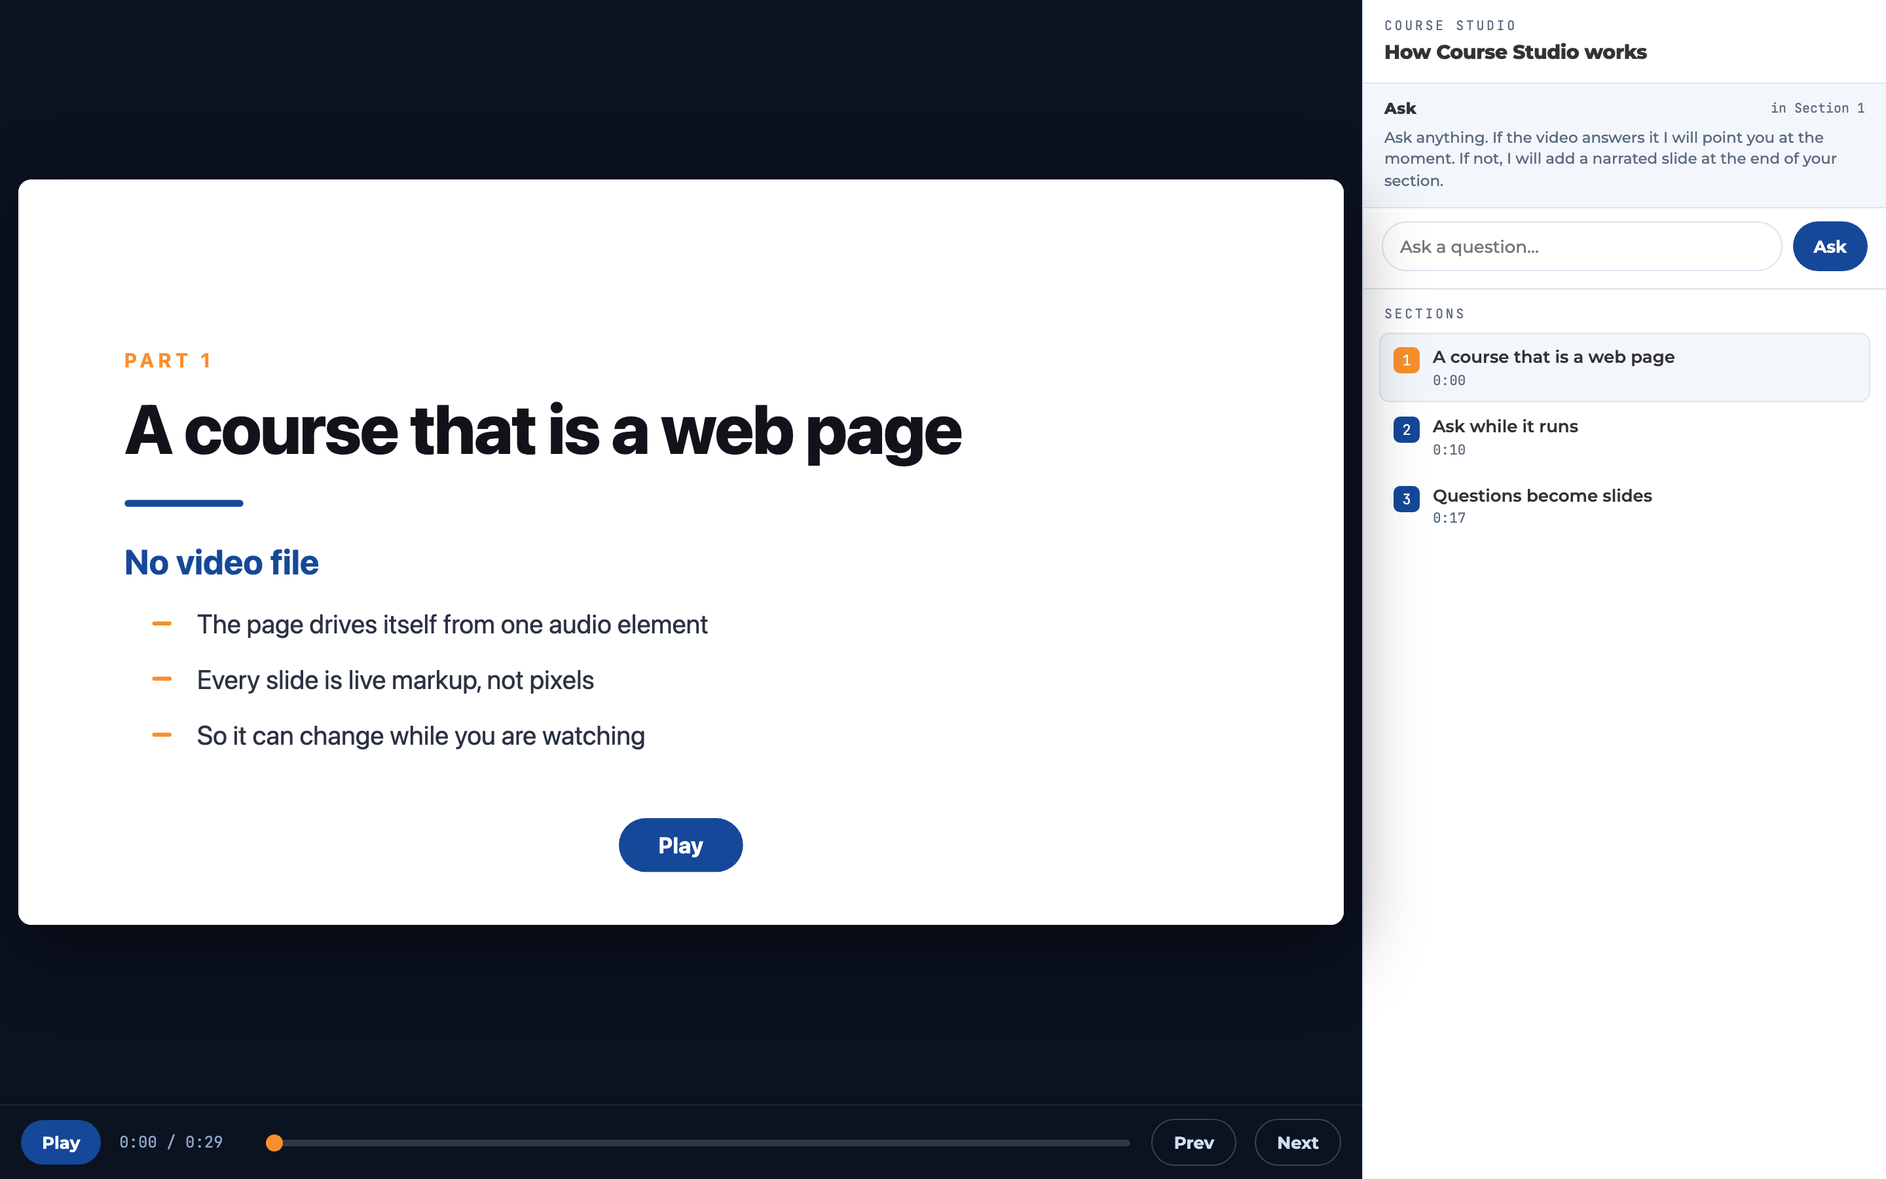
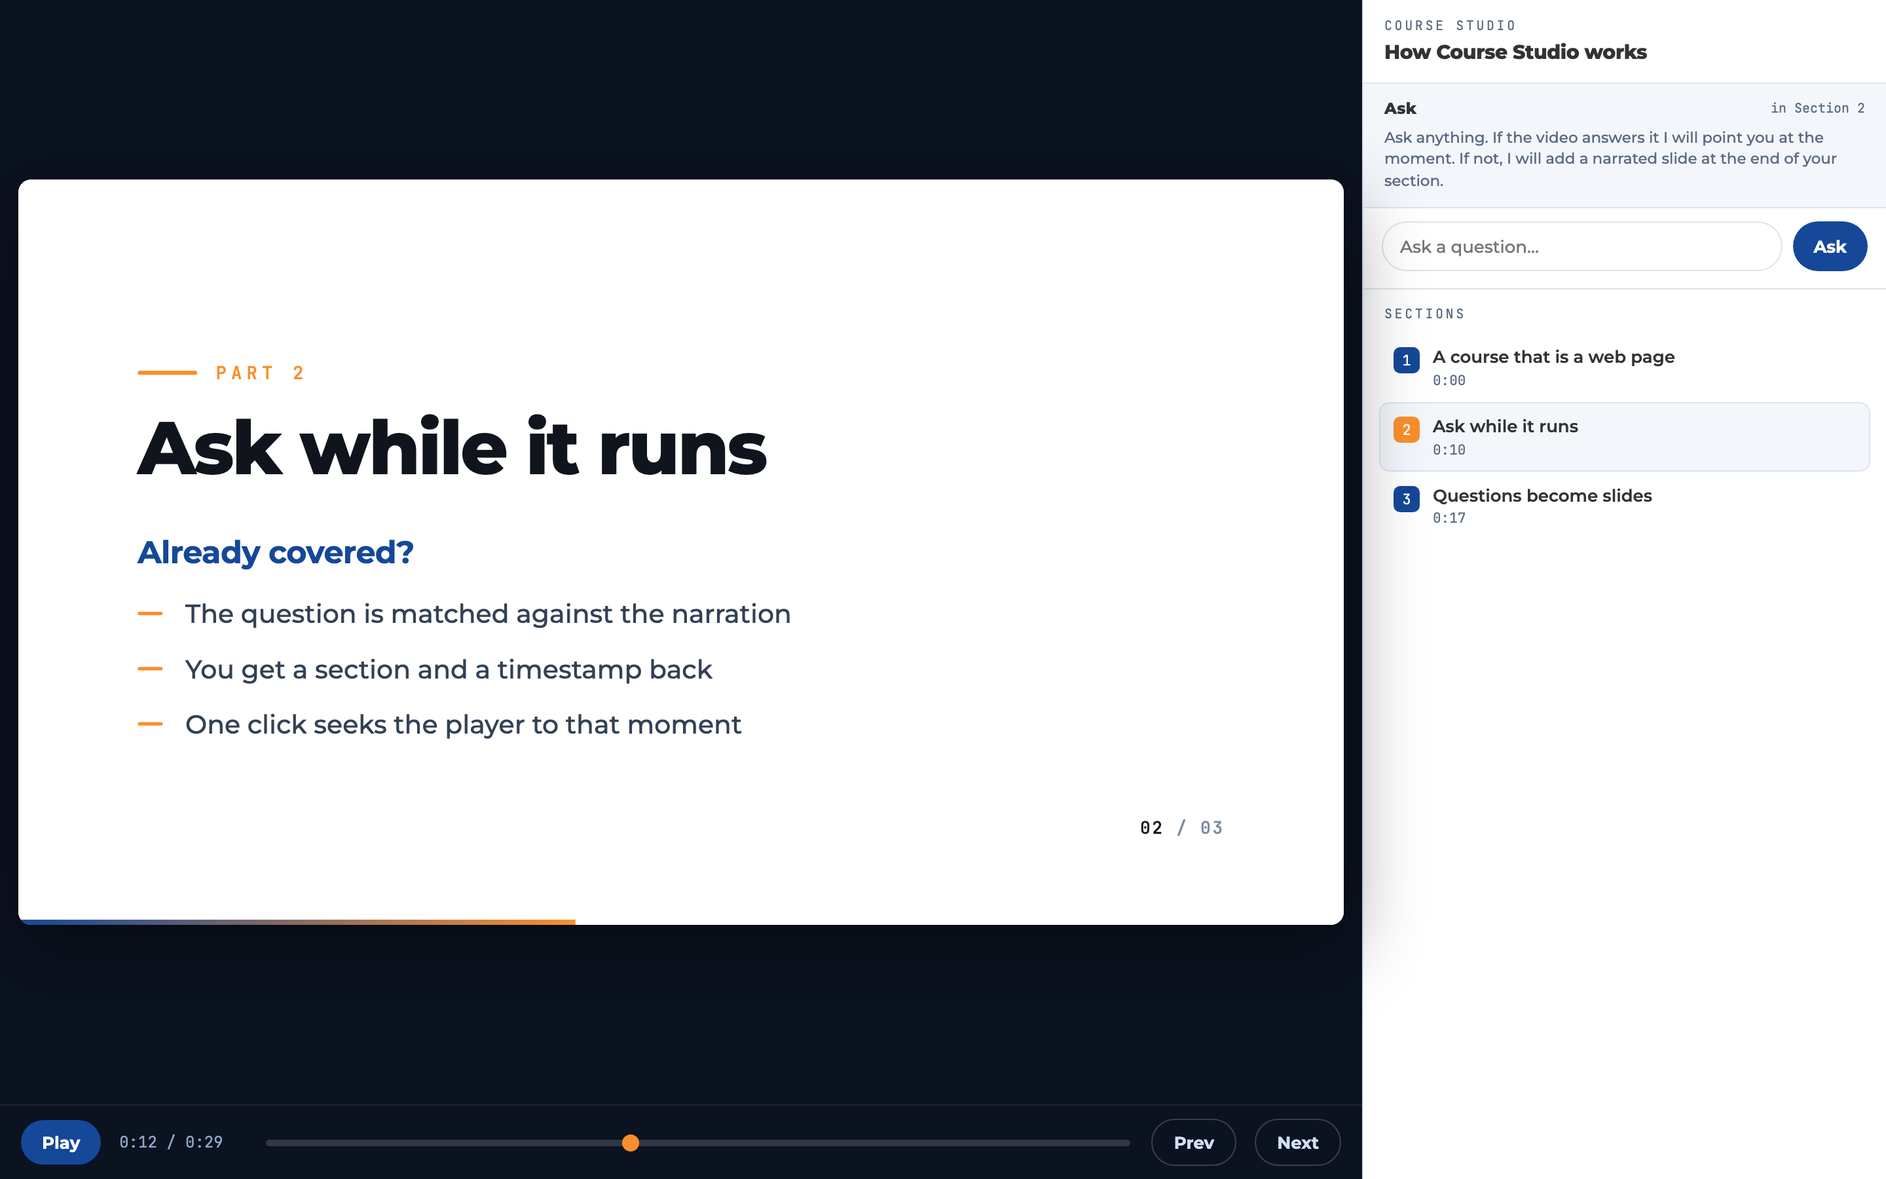
Fix the course library page and redesign the demo visuals
The library page never worked when courses existed. The template read

    const cs = /*{{COURSES}}*/[];

and the server substituted the COMMENT, producing `[{...}][]` — an array
literal followed by an empty subscript, which is a SyntaxError. The script
died on parse, the list stayed empty, and the only reason this went unnoticed
is that the unsubstituted fallback (`[]`) is what you see with no courses.
The placeholder is now the value itself, and the rendered page is checked for
page errors rather than just for a 200.

Design, since the screenshots were the deliverable:

- Library: proper cards with title, section count and duration, a hover state,
  gradient edge accent, dark-mode palette, and an empty state that names the
  command to run. The page no longer prints the brand twice.
- Demo slides: real type scale, a rule-and-kicker header, a section counter in
  the dead bottom corner, and a gradient progress bar. The stray Play pill is
  now a proper centred overlay that dismisses on play.
- Screenshots recaptured at 2x.

diff --git a/courses/demo/site/index.html b/courses/demo/site/index.html
@@ -1,40 +1,68 @@
 <!doctype html><html lang="en"><meta charset="utf-8">
 <title>Course Studio — demo</title>
 <meta name="viewport" content="width=device-width,initial-scale=1">
+<link rel="stylesheet" href="https://fonts.googleapis.com/css2?family=Montserrat:wght@500;600;700;800&family=JetBrains+Mono:wght@500&display=swap">
 <style>
-:root{--navy:#154899;--org:#F98F2C;--ink:#12131A;--mut:#6B7A90;--line:#E3EAF4}
+:root{--navy:#154899;--org:#F98F2C;--ink:#10151d;--body:#334155;--mut:#7d8ba0;--bg:#fff;--ln:#e6edf7}
+@media (prefers-color-scheme:dark){
+  :root{--ink:#eef3fb;--body:#b7c4d6;--mut:#7f8da3;--bg:#0d1117;--ln:#222b3a}
+}
 *{box-sizing:border-box;margin:0}
 html,body{height:100%}
-body{background:#fff;color:var(--ink);
-  font:400 16px/1.5 'Montserrat',system-ui,-apple-system,sans-serif;overflow:hidden}
+body{background:var(--bg);color:var(--ink);overflow:hidden;
+  font-family:Montserrat,system-ui,-apple-system,sans-serif}
 #stage{position:relative;width:100vw;height:100vh;container-type:size}
+
 .frame{position:absolute;inset:0;display:flex;flex-direction:column;justify-content:center;
-  padding:0 8cqw;opacity:0;transition:opacity .45s ease;pointer-events:none}
+  padding:0 9cqw;opacity:0;transition:opacity .5s ease;pointer-events:none}
 .frame.on{opacity:1}
-.kicker{font-weight:700;font-size:1.5cqw;line-height:1;letter-spacing:.22em;text-transform:uppercase;
-  color:var(--org);margin-bottom:1.6cqw}
-h2{font-weight:800;font-size:5.2cqw;line-height:1.08;letter-spacing:-.02em;max-width:74cqw}
-.rule{width:9cqw;height:.5cqw;background:var(--navy);border-radius:99px;margin:2.6cqw 0}
-h3{font-weight:700;font-size:2.6cqw;line-height:1.2;color:var(--navy);margin-bottom:1.6cqw}
-ul{list-style:none;display:flex;flex-direction:column;gap:1.2cqw;max-width:68cqw}
-li{position:relative;padding-left:3.4cqw;font-size:2cqw;color:#2A3242;
-  opacity:0;transform:translateY(10px);transition:all .5s ease}
+
+.kicker{display:flex;align-items:center;gap:1.4cqw;
+  font-family:'JetBrains Mono',monospace;font-weight:500;font-size:1.35cqw;
+  letter-spacing:.26em;text-transform:uppercase;color:var(--org);margin-bottom:1.9cqw}
+.kicker s{width:4.5cqw;height:.28cqw;background:var(--org);border-radius:99px;display:block;
+  text-decoration:none}
+
+h2{font-weight:800;font-size:5.6cqw;line-height:1.05;letter-spacing:-.028em;max-width:68cqw}
+
+h3{font-weight:700;font-size:2.35cqw;line-height:1.25;color:var(--navy);
+  margin:3.4cqw 0 1.8cqw;letter-spacing:-.012em}
+@media (prefers-color-scheme:dark){ h3{color:#6fa4ff} }
+
+ul{list-style:none;padding:0;display:flex;flex-direction:column;gap:1.35cqw;max-width:62cqw}
+li{position:relative;padding-left:3.6cqw;font-size:1.95cqw;font-weight:500;line-height:1.45;
+  color:var(--body);opacity:0;transform:translateY(12px);
+  transition:opacity .55s ease,transform .55s ease}
 .on li{opacity:1;transform:none}
-.on li:nth-child(2){transition-delay:.18s} .on li:nth-child(3){transition-delay:.36s}
-li::before{content:"";position:absolute;left:0;top:.66em;width:1.5cqw;height:.32cqw;
+.on li:nth-child(2){transition-delay:.16s}
+.on li:nth-child(3){transition-delay:.32s}
+li::before{content:"";position:absolute;left:0;top:.62em;width:1.9cqw;height:.26cqw;
   background:var(--org);border-radius:99px}
-#bar{position:fixed;left:0;bottom:0;height:.45cqw;background:var(--org);width:0;z-index:5}
-#cta{position:fixed;left:50%;bottom:4cqw;transform:translateX(-50%);z-index:6;
-  background:var(--navy);color:#fff;border:0;border-radius:99px;cursor:pointer;
-  padding:1.2cqw 3cqw;font-weight:700;font-size:1.7cqw;line-height:1;font-family:inherit}
+
+/* section counter, bottom right — gives the empty corner a job */
+.num{position:absolute;right:9cqw;bottom:6.5cqw;font-family:'JetBrains Mono',monospace;
+  font-weight:500;font-size:1.3cqw;letter-spacing:.1em;color:var(--mut)}
+.num b{color:var(--ink);font-weight:500}
+
+#bar{position:fixed;left:0;bottom:0;height:.42cqw;width:0;z-index:5;
+  background:linear-gradient(90deg,var(--navy),var(--org))}
+
+/* play overlay: a real affordance, not a stray pill */
+#cta{position:fixed;inset:0;z-index:6;display:grid;place-items:center;cursor:pointer;
+  border:0;padding:0;background:color-mix(in srgb,var(--bg) 72%,transparent);
+  backdrop-filter:blur(3px);font-family:inherit}
 #cta[hidden]{display:none}
-@media (prefers-color-scheme:dark){
-  body{background:#0E1117;color:#E7ECF4} h3{color:#7FB0FF} li{color:#B9C4D6}
-}
+#cta span{width:9cqw;height:9cqw;border-radius:50%;display:grid;place-items:center;
+  background:var(--navy);box-shadow:0 1.4cqw 4cqw rgba(21,72,153,.34);
+  transition:transform .18s ease}
+#cta:hover span{transform:scale(1.06)}
+#cta span::after{content:"";border-left:2.5cqw solid #fff;
+  border-top:1.55cqw solid transparent;border-bottom:1.55cqw solid transparent;
+  margin-left:.75cqw}
 </style>
-<div id="stage"><section class="frame" data-t0="0.00" data-t1="10.15"><div class="kicker">Part 1</div><h2>A course that is a web page</h2><div class="rule"></div><h3>No video file</h3><ul><li>The page drives itself from one audio element</li><li>Every slide is live markup, not pixels</li><li>So it can change while you are watching</li></ul></section><section class="frame" data-t0="10.15" data-t1="17.96"><div class="kicker">Part 2</div><h2>Ask while it runs</h2><div class="rule"></div><h3>Already covered?</h3><ul><li>The question is matched against the narration</li><li>You get a section and a timestamp back</li><li>One click seeks the player to that moment</li></ul></section><section class="frame" data-t0="17.96" data-t1="28.54"><div class="kicker">Part 3</div><h2>Questions become slides</h2><div class="rule"></div><h3>Not covered yet</h3><ul><li>A new slide is written for your question</li><li>It is narrated in the same voice</li><li>It is inserted at the end of that section</li></ul></section></div>
+<div id="stage"><section class="frame" data-t0="0.00" data-t1="10.15"><div class="kicker"><s></s>Part 1</div><h2>A course that is a web page</h2><h3>No video file</h3><ul><li>The page drives itself from one audio element</li><li>Every slide is live markup, not pixels</li><li>So it can change while you are watching</li></ul><div class="num"><b>01</b> / 03</div></section><section class="frame" data-t0="10.15" data-t1="17.96"><div class="kicker"><s></s>Part 2</div><h2>Ask while it runs</h2><h3>Already covered?</h3><ul><li>The question is matched against the narration</li><li>You get a section and a timestamp back</li><li>One click seeks the player to that moment</li></ul><div class="num"><b>02</b> / 03</div></section><section class="frame" data-t0="17.96" data-t1="28.54"><div class="kicker"><s></s>Part 3</div><h2>Questions become slides</h2><h3>Not covered yet</h3><ul><li>A new slide is written for your question</li><li>It is narrated in the same voice</li><li>It is inserted at the end of that section</li></ul><div class="num"><b>03</b> / 03</div></section></div>
 <div id="bar"></div>
-<button id="cta">Play</button>
+<button id="cta" aria-label="Play"><span></span></button>
 <audio id="voice" preload="auto" src="voice.mp3"></audio>
 <script>
 // The contract: each .frame carries t0/t1, and one <audio> decides which is visible.

diff --git a/player/index.html b/player/index.html
@@ -1,26 +1,75 @@
 <!doctype html>
-<html lang="en"><head><meta charset="utf-8"><title>Course Studio</title>
-<link rel="stylesheet" href="https://fonts.googleapis.com/css2?family=Montserrat:wght@600;800&family=JetBrains+Mono:wght@400&display=swap">
+<html lang="en"><head><meta charset="utf-8">
+<title>{{BRAND}}</title>
+<meta name="viewport" content="width=device-width,initial-scale=1">
+<link rel="preconnect" href="https://fonts.googleapis.com">
+<link rel="stylesheet" href="https://fonts.googleapis.com/css2?family=Montserrat:wght@500;600;700;800&family=JetBrains+Mono:wght@400;500&display=swap">
 <style>
-:root{--navy:#154899;--org:#f98f2c;--ink:#333;--mut:#5b6b80;--ln:#dce4ef;--surf:#f3f7fc}
+:root{
+  --navy:#154899; --org:#f98f2c;
+  --ink:#141922; --mut:#64748b; --ln:#e2e8f2; --card:#fff;
+  --bg1:#ffffff; --bg2:#eef3fb;
+}
+@media (prefers-color-scheme:dark){
+  :root{--ink:#e8edf6; --mut:#8fa0b8; --ln:#242c3a; --card:#151a24; --bg1:#0d1117; --bg2:#121826}
+}
 *{box-sizing:border-box}
-body{margin:0;font-family:Montserrat,system-ui,sans-serif;color:var(--ink);
-  background:linear-gradient(180deg,#fff,#eef3fa);min-height:100vh;padding:56px 24px}
-.wrap{max-width:760px;margin:0 auto}
-.k{font-family:'JetBrains Mono',monospace;font-size:11px;letter-spacing:.2em;text-transform:uppercase;color:var(--mut)}
-h1{font-weight:800;letter-spacing:-.022em;font-size:34px;margin:10px 0 28px;color:var(--navy)}
-a.c{display:flex;justify-content:space-between;align-items:center;gap:16px;text-decoration:none;color:inherit;
-  background:#fff;border:1px solid var(--ln);border-radius:14px;padding:18px 20px;margin-bottom:12px}
-a.c:hover{border-color:var(--navy)}
-a.c b{font-size:17px;font-weight:700}
-a.c .m{font-family:'JetBrains Mono',monospace;font-size:12px;color:var(--mut);white-space:nowrap}
-.empty{color:var(--mut);font-size:14px}
+body{margin:0;min-height:100vh;padding:72px 24px 56px;color:var(--ink);
+  font-family:Montserrat,system-ui,-apple-system,sans-serif;
+  background:
+    radial-gradient(900px 420px at 12% -8%, rgba(21,72,153,.10), transparent 60%),
+    radial-gradient(760px 360px at 92% 4%, rgba(249,143,44,.10), transparent 60%),
+    linear-gradient(180deg,var(--bg1),var(--bg2));
+  background-attachment:fixed}
+.wrap{max-width:900px;margin:0 auto}
+
+.k{font-family:'JetBrains Mono',monospace;font-size:11px;font-weight:500;
+  letter-spacing:.24em;text-transform:uppercase;color:var(--org)}
+h1{font-weight:800;letter-spacing:-.028em;font-size:clamp(32px,5vw,46px);
+  line-height:1.05;margin:12px 0 10px}
+.sub{color:var(--mut);font-size:16px;font-weight:500;max-width:52ch;line-height:1.55;margin:0 0 38px}
+
+.grid{display:grid;gap:14px}
+a.c{position:relative;display:grid;grid-template-columns:1fr auto;align-items:center;gap:18px;
+  text-decoration:none;color:inherit;background:var(--card);
+  border:1px solid var(--ln);border-radius:16px;padding:22px 24px;
+  transition:border-color .16s ease, transform .16s ease, box-shadow .16s ease;overflow:hidden}
+a.c::before{content:"";position:absolute;left:0;top:0;bottom:0;width:3px;
+  background:linear-gradient(180deg,var(--navy),var(--org));opacity:0;transition:opacity .16s ease}
+a.c:hover{border-color:transparent;transform:translateY(-2px);
+  box-shadow:0 10px 28px rgba(21,72,153,.14)}
+a.c:hover::before{opacity:1}
+a.c b{display:block;font-size:19px;font-weight:700;letter-spacing:-.012em;line-height:1.25}
+a.c .m{display:flex;gap:8px;align-items:center;margin-top:8px;
+  font-family:'JetBrains Mono',monospace;font-size:12px;color:var(--mut)}
+a.c .m i{font-style:normal;width:3px;height:3px;border-radius:50%;background:var(--mut);opacity:.5}
+a.c .go{width:34px;height:34px;border-radius:50%;flex:none;display:grid;place-items:center;
+  border:1px solid var(--ln);color:var(--navy);font-size:15px;line-height:1;
+  transition:background .16s ease,color .16s ease,border-color .16s ease}
+a.c:hover .go{background:var(--navy);border-color:var(--navy);color:#fff}
+@media (prefers-color-scheme:dark){ a.c:hover .go{background:#2f6ad0;border-color:#2f6ad0} }
+
+.empty{border:1px dashed var(--ln);border-radius:16px;padding:36px 28px;text-align:center;
+  color:var(--mut);font-size:15px;line-height:1.6}
+.empty code{font-family:'JetBrains Mono',monospace;font-size:13px;color:var(--ink);
+  background:rgba(127,140,160,.14);padding:2px 7px;border-radius:5px}
 </style></head><body><div class="wrap">
-<div class="k">{{BRAND}}</div><h1>Course Studio</h1><div id="l"></div>
-</div><script>
-const cs = /*{{COURSES}}*/[];
-document.getElementById('l').innerHTML = cs.length ? cs.map(c=>{
-  const m=Math.round((c.duration||0)/60);
-  return `<a class="c" href="/c/${c.id}"><b>${c.title}</b><span class="m">${c.sections} sections · ${m} min</span></a>`;
-}).join('') : '<div class="empty">No courses yet. Run ingest.py against a VideoGenerator build.</div>';
+  <div class="k">{{BRAND}}</div>
+  <h1>Course library</h1>
+  <p class="sub">Every course is a web page, not a video — so you can ask it questions while it
+  plays, and it can answer with a timestamp or write you a new slide.</p>
+  <div class="grid" id="l"></div>
+</div>
+<script>
+// Server substitutes the whole array. Note this is NOT wrapped in a comment: doing that
+// produced `[{...}][]` after substitution, which is a syntax error, and the list silently
+// never rendered.
+const cs = {{COURSES}};
+const mins = s => { const m = Math.round((s||0)/60); return m < 1 ? "under a minute" : m + " min"; };
+document.getElementById('l').innerHTML = cs.length
+  ? cs.map(c => `<a class="c" href="/c/${encodeURIComponent(c.id)}">
+      <span><b>${c.title}</b><span class="m">${c.sections} section${c.sections===1?'':'s'}<i></i>${mins(c.duration)}</span></span>
+      <span class="go">&rarr;</span></a>`).join('')
+  : `<div class="empty">No courses yet.<br>Build the bundled demo with <code>python3 make_demo.py</code>,
+     or point <code>ingest.py</code> at a VideoGenerator build.</div>`;
 </script></body></html>

diff --git a/make_demo.py b/make_demo.py
@@ -81,40 +81,68 @@ def probe(p: Path) -> float:
 PAGE = """<!doctype html><html lang="en"><meta charset="utf-8">
 <title>{title}</title>
 <meta name="viewport" content="width=device-width,initial-scale=1">
+<link rel="stylesheet" href="https://fonts.googleapis.com/css2?family=Montserrat:wght@500;600;700;800&family=JetBrains+Mono:wght@500&display=swap">
 <style>
-:root{{--navy:#154899;--org:#F98F2C;--ink:#12131A;--mut:#6B7A90;--line:#E3EAF4}}
+:root{{--navy:#154899;--org:#F98F2C;--ink:#10151d;--body:#334155;--mut:#7d8ba0;--bg:#fff;--ln:#e6edf7}}
+@media (prefers-color-scheme:dark){{
+  :root{{--ink:#eef3fb;--body:#b7c4d6;--mut:#7f8da3;--bg:#0d1117;--ln:#222b3a}}
+}}
 *{{box-sizing:border-box;margin:0}}
 html,body{{height:100%}}
-body{{background:#fff;color:var(--ink);
-  font:400 16px/1.5 'Montserrat',system-ui,-apple-system,sans-serif;overflow:hidden}}
+body{{background:var(--bg);color:var(--ink);overflow:hidden;
+  font-family:Montserrat,system-ui,-apple-system,sans-serif}}
 #stage{{position:relative;width:100vw;height:100vh;container-type:size}}
+
 .frame{{position:absolute;inset:0;display:flex;flex-direction:column;justify-content:center;
-  padding:0 8cqw;opacity:0;transition:opacity .45s ease;pointer-events:none}}
+  padding:0 9cqw;opacity:0;transition:opacity .5s ease;pointer-events:none}}
 .frame.on{{opacity:1}}
-.kicker{{font-weight:700;font-size:1.5cqw;line-height:1;letter-spacing:.22em;text-transform:uppercase;
-  color:var(--org);margin-bottom:1.6cqw}}
-h2{{font-weight:800;font-size:5.2cqw;line-height:1.08;letter-spacing:-.02em;max-width:74cqw}}
-.rule{{width:9cqw;height:.5cqw;background:var(--navy);border-radius:99px;margin:2.6cqw 0}}
-h3{{font-weight:700;font-size:2.6cqw;line-height:1.2;color:var(--navy);margin-bottom:1.6cqw}}
-ul{{list-style:none;display:flex;flex-direction:column;gap:1.2cqw;max-width:68cqw}}
-li{{position:relative;padding-left:3.4cqw;font-size:2cqw;color:#2A3242;
-  opacity:0;transform:translateY(10px);transition:all .5s ease}}
+
+.kicker{{display:flex;align-items:center;gap:1.4cqw;
+  font-family:'JetBrains Mono',monospace;font-weight:500;font-size:1.35cqw;
+  letter-spacing:.26em;text-transform:uppercase;color:var(--org);margin-bottom:1.9cqw}}
+.kicker s{{width:4.5cqw;height:.28cqw;background:var(--org);border-radius:99px;display:block;
+  text-decoration:none}}
+
+h2{{font-weight:800;font-size:5.6cqw;line-height:1.05;letter-spacing:-.028em;max-width:68cqw}}
+
+h3{{font-weight:700;font-size:2.35cqw;line-height:1.25;color:var(--navy);
+  margin:3.4cqw 0 1.8cqw;letter-spacing:-.012em}}
+@media (prefers-color-scheme:dark){{ h3{{color:#6fa4ff}} }}
+
+ul{{list-style:none;padding:0;display:flex;flex-direction:column;gap:1.35cqw;max-width:62cqw}}
+li{{position:relative;padding-left:3.6cqw;font-size:1.95cqw;font-weight:500;line-height:1.45;
+  color:var(--body);opacity:0;transform:translateY(12px);
+  transition:opacity .55s ease,transform .55s ease}}
 .on li{{opacity:1;transform:none}}
-.on li:nth-child(2){{transition-delay:.18s}} .on li:nth-child(3){{transition-delay:.36s}}
-li::before{{content:"";position:absolute;left:0;top:.66em;width:1.5cqw;height:.32cqw;
+.on li:nth-child(2){{transition-delay:.16s}}
+.on li:nth-child(3){{transition-delay:.32s}}
+li::before{{content:"";position:absolute;left:0;top:.62em;width:1.9cqw;height:.26cqw;
   background:var(--org);border-radius:99px}}
-#bar{{position:fixed;left:0;bottom:0;height:.45cqw;background:var(--org);width:0;z-index:5}}
-#cta{{position:fixed;left:50%;bottom:4cqw;transform:translateX(-50%);z-index:6;
-  background:var(--navy);color:#fff;border:0;border-radius:99px;cursor:pointer;
-  padding:1.2cqw 3cqw;font-weight:700;font-size:1.7cqw;line-height:1;font-family:inherit}}
+
+/* section counter, bottom right — gives the empty corner a job */
+.num{{position:absolute;right:9cqw;bottom:6.5cqw;font-family:'JetBrains Mono',monospace;
+  font-weight:500;font-size:1.3cqw;letter-spacing:.1em;color:var(--mut)}}
+.num b{{color:var(--ink);font-weight:500}}
+
+#bar{{position:fixed;left:0;bottom:0;height:.42cqw;width:0;z-index:5;
+  background:linear-gradient(90deg,var(--navy),var(--org))}}
+
+/* play overlay: a real affordance, not a stray pill */
+#cta{{position:fixed;inset:0;z-index:6;display:grid;place-items:center;cursor:pointer;
+  border:0;padding:0;background:color-mix(in srgb,var(--bg) 72%,transparent);
+  backdrop-filter:blur(3px);font-family:inherit}}
 #cta[hidden]{{display:none}}
-@media (prefers-color-scheme:dark){{
-  body{{background:#0E1117;color:#E7ECF4}} h3{{color:#7FB0FF}} li{{color:#B9C4D6}}
-}}
+#cta span{{width:9cqw;height:9cqw;border-radius:50%;display:grid;place-items:center;
+  background:var(--navy);box-shadow:0 1.4cqw 4cqw rgba(21,72,153,.34);
+  transition:transform .18s ease}}
+#cta:hover span{{transform:scale(1.06)}}
+#cta span::after{{content:"";border-left:2.5cqw solid #fff;
+  border-top:1.55cqw solid transparent;border-bottom:1.55cqw solid transparent;
+  margin-left:.75cqw}}
 </style>
 <div id="stage">{frames}</div>
 <div id="bar"></div>
-<button id="cta">Play</button>
+<button id="cta" aria-label="Play"><span></span></button>
 <audio id="voice" preload="auto" src="voice.mp3"></audio>
 <script>
 // The contract: each .frame carries t0/t1, and one <audio> decides which is visible.
@@ -133,6 +161,7 @@ CTA.addEventListener('click', () => A.play());
 paint(0);
 </script>
 </html>"""
+
 
 
 def main() -> int:
@@ -159,8 +188,9 @@ def main() -> int:
         lis = "".join(f"<li>{b}</li>" for b in bullets)
         frames.append(
             f'<section class="frame" data-t0="{t0:.2f}" data-t1="{t1:.2f}">'
-            f'<div class="kicker">{kicker}</div><h2>{title}</h2><div class="rule"></div>'
-            f'<h3>{head}</h3><ul>{lis}</ul></section>')
+            f'<div class="kicker"><s></s>{kicker}</div><h2>{title}</h2>'
+            f'<h3>{head}</h3><ul>{lis}</ul>'
+            f'<div class="num"><b>{i:02d}</b> / {len(SECTIONS):02d}</div></section>')
         t = t1
 
     if parts:

diff --git a/server.py b/server.py
@@ -154,7 +154,7 @@ class Handler(BaseHTTPRequestHandler):
                     }
                 )
             html = (PLAYER / "index.html").read_text().replace(
-                "/*{{COURSES}}*/", json.dumps(courses)
+                "{{COURSES}}", json.dumps(courses)
             ).replace("{{BRAND}}", html_escape(BRAND))
             self._send(200, html.encode(), "text/html; charset=utf-8")
             return
